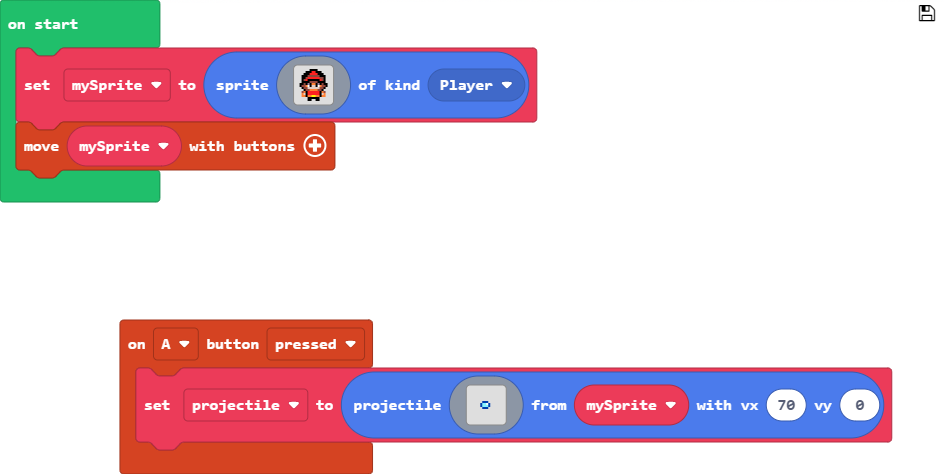
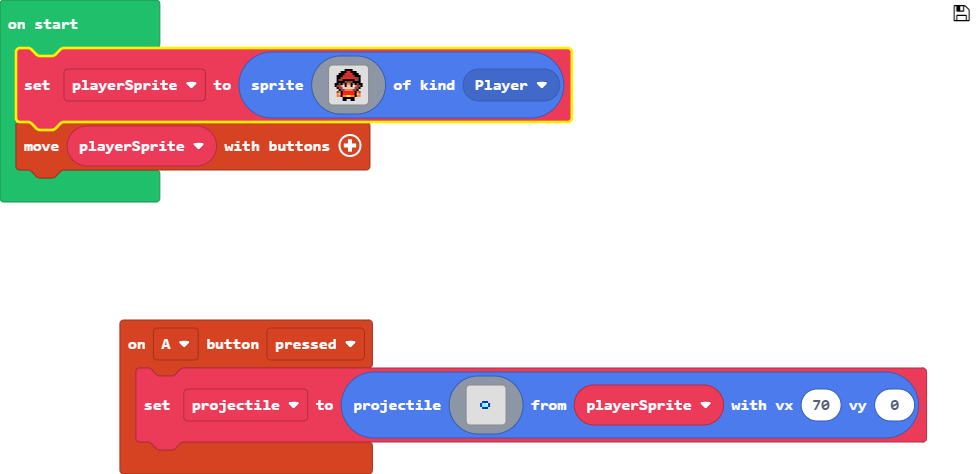
Update main.blocks, main.ts

diff --git a/main.ts b/main.ts
@@ -16,11 +16,11 @@ controller.A.onEvent(ControllerButtonEvent.Pressed, function () {
 . . . . . . . . . . . . . . . . 
 . . . . . . . . . . . . . . . . 
 . . . . . . . . . . . . . . . . 
-`, mySprite, 70, 0)
+`, playerSprite, 70, 0)
 })
 let projectile: Sprite = null
-let mySprite: Sprite = null
-mySprite = sprites.create(img`
+let playerSprite: Sprite = null
+playerSprite = sprites.create(img`
 . . . . . . f f f f . . . . . . 
 . . . . f f f 2 2 f f f . . . . 
 . . . f f f 2 2 2 2 f f f . . . 
@@ -38,4 +38,4 @@ mySprite = sprites.create(img`
 . . . . . f f f f f f . . . . . 
 . . . . . f f . . f f . . . . . 
 `, SpriteKind.Player)
-controller.moveSprite(mySprite)
+controller.moveSprite(playerSprite)
